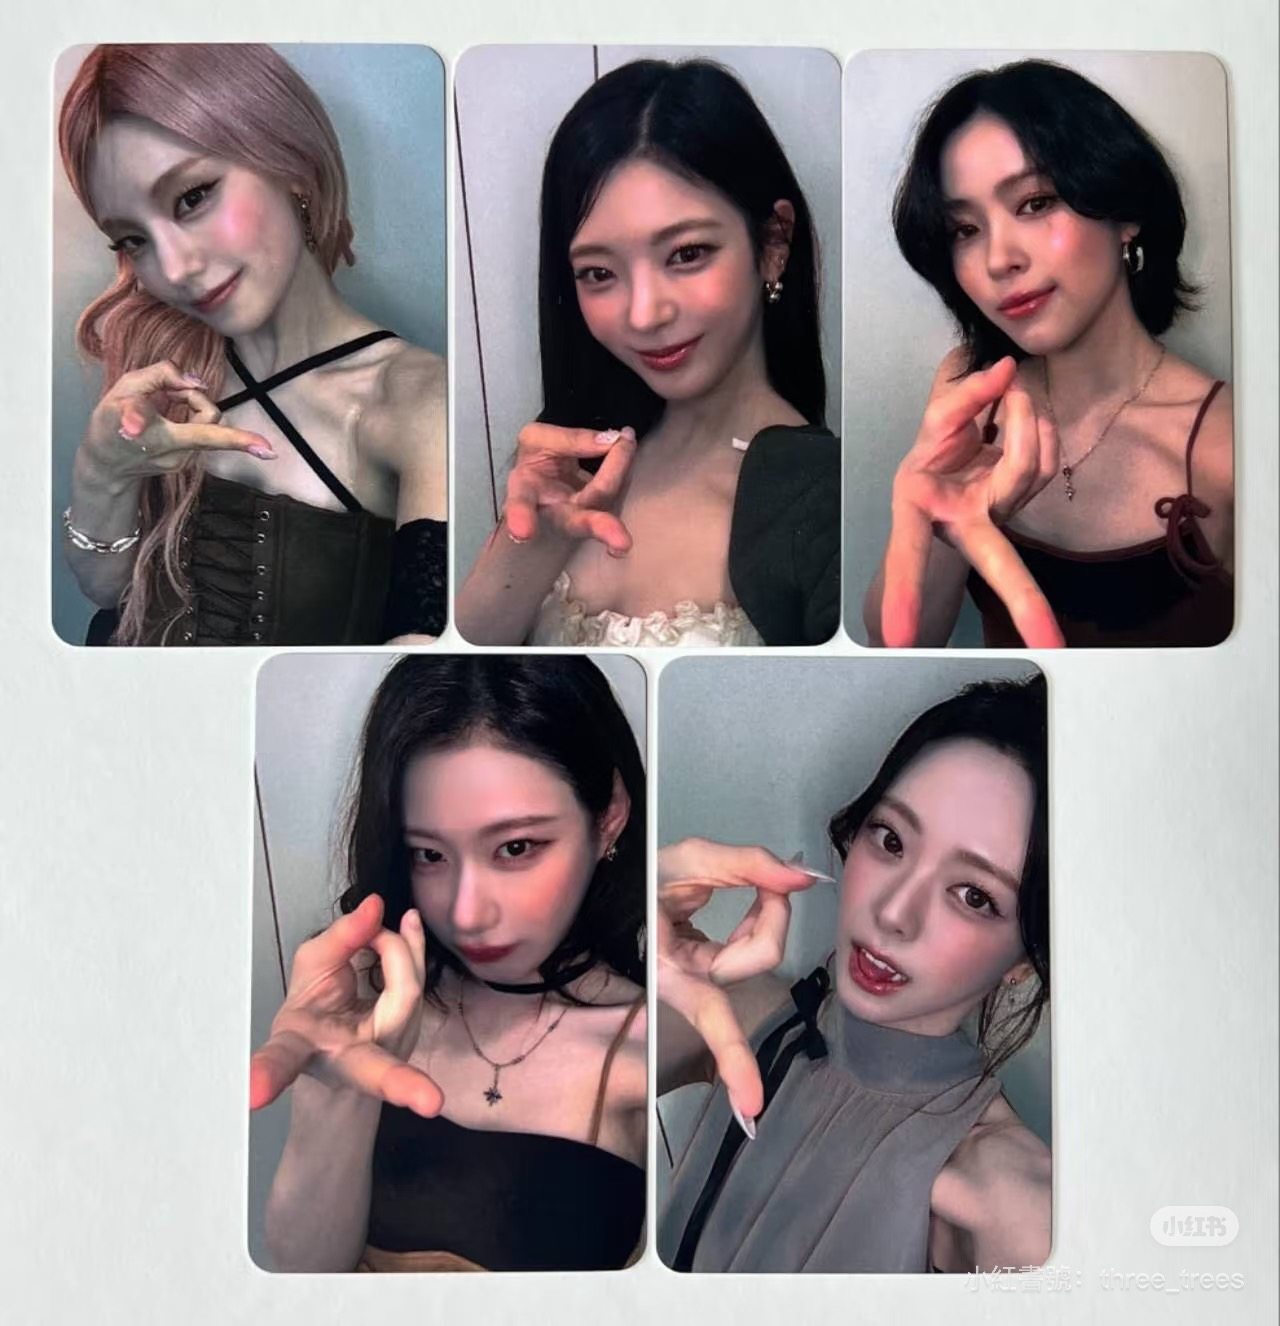
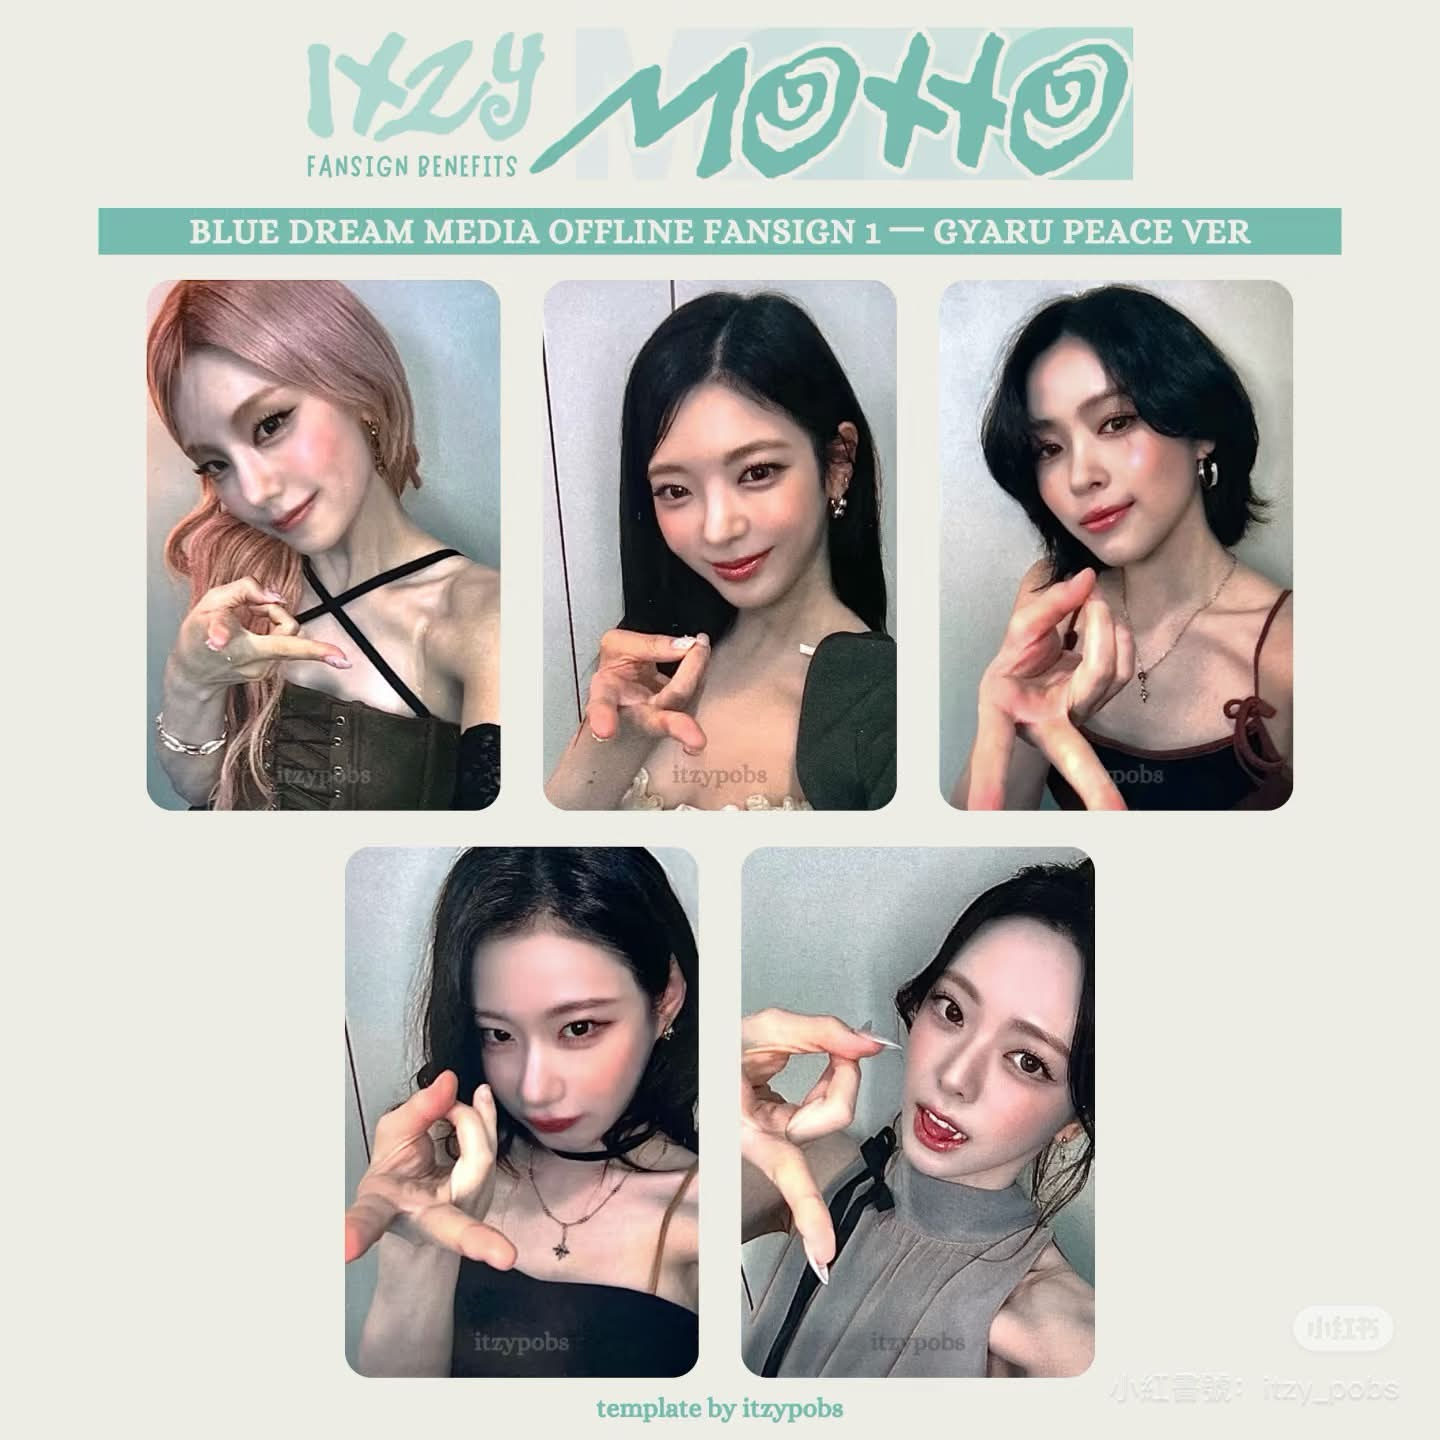
新增Motto簽售卡

diff --git a/gallery.html b/gallery.html
@@ -104,9 +104,18 @@
             offline: {
                 title: "Motto - 線下簽售",
                 images: [
-                    { img: "./Motto/wmld.jpg", text: "wm幸運卡" },
                     { img: "./Motto/BDM_under_line.jpg", text: "BDM線下 反手比耶.ver" },
+                    { img: "./Motto/BDM_online.jpg", text: "BDM線上 貓爪.ver" },
                     { img: "./Motto/wm1.0_underline.jpg", text: "wm1.0線下 偵探.ver" },
+                    { img: "./Motto/wm1.0_online.jpg", text: "wm1.0線上 水手.ver" },
+                    { img: "./Motto/wm2.0_under_line.jpg", text: "wm2.0線下 斗篷.ver" },
+                    { img: "./Motto/wm2.0_online.jpg", text: "wm2.0線上 白熊.ver" },
+                    { img: "./Motto/ms1.0_online.jpg", text: "ms1.0線上 社員.ver" },
+                    { img: "./Motto/ms1.0_under_line.jpg", text: "ms1.0線下 食譜.ver" },
+                    { img: "./Motto/ms1.0.jpg", text: "ms1.0 臉嘟嘟.ver" },
+                    { img: "./Motto/ms2.0_online.jpg", text: "ms2.0線上 躲貓貓(雙面卡).ver" },
+                    { img: "./Motto/ms2.0_under_line.jpeg", text: "ms2.0線下 蛋糕.ver" },
+                    { img: "./Motto/ms3.0_online.jpg", text: "ms3.0線上 皮衣.ver" },
                     { img: "./Motto/ms.jpg", text: "圖片待放入" }
                 ]
             },

diff --git a/index.html b/index.html
@@ -103,8 +103,7 @@
     <div class="notice-box">
         <h2 style="color:var(--primary-color)">📢 網站使用聲明</h2>
         <p style="text-align:left;">
-            ‼本網站為個人非營利收藏紀錄，所有照片與素材皆來自網路公開資源，版權歸原創作者所有。‼<br><br>
-            💕圖源大多來自官方網頁截圖以及小紅書itzypobs💕<br><br>
+            ‼本網站為個人非營利收藏紀錄，所有照片與素材皆來自網路公開資源(💕圖源大多來自官方網頁截圖以及小紅書itzypobs)，版權歸原創作者所有。‼<br><br>
             ‼本站內容禁止作為任何商業盈利用途。‼<br><br>
             ‼進入網站即代表您同意本站規範。‼
         </p>
